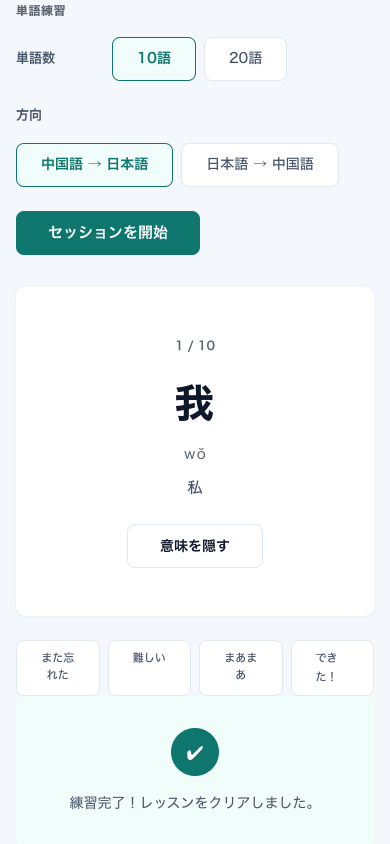
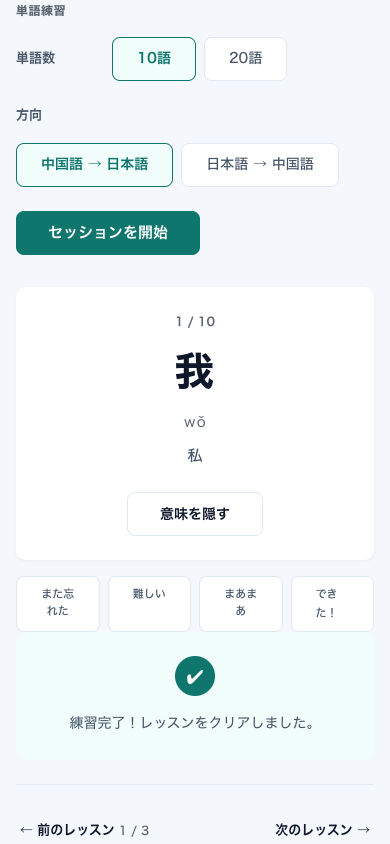
fix: shrink B vocab spacing, realign screenshots to section-label top

diff --git a/docs/design/prototypes/direction-b-learning-app.html b/docs/design/prototypes/direction-b-learning-app.html
@@ -621,14 +621,14 @@
   /* --- Completion state ----------------------------------------- */
   .completion {
     text-align: center;
-    padding: var(--space-xl) var(--space-md);
+    padding: var(--space-lg) var(--space-md);
     border-radius: var(--radius-card);
     background: var(--color-accent-light);
-    margin-bottom: var(--space-xl);
+    margin-bottom: 0;
   }
   .completion__icon {
-    width: 48px;
-    height: 48px;
+    width: 40px;
+    height: 40px;
     background: var(--color-accent);
     color: #fff;
     font-size: 1.25rem;
@@ -645,7 +645,7 @@
 
   /* --- Vocabulary Session ---------------------------------------- */
   .vocab-section {
-    margin-bottom: var(--space-xl);
+    margin-bottom: 0;
   }
 
   /* Setup panel */
@@ -724,15 +724,15 @@
     background: var(--color-elevated);
     border-radius: var(--radius-card);
     box-shadow: var(--shadow-card);
-    padding: var(--space-2xl) var(--space-lg);
+    padding: var(--space-lg) var(--space-lg);
     text-align: center;
-    margin-bottom: var(--space-lg);
+    margin-bottom: var(--space-md);
   }
   .vocab-card__count {
     font-size: 0.75rem;
     font-weight: 600;
     color: var(--color-text-muted);
-    margin-bottom: var(--space-lg);
+    margin-bottom: var(--space-md);
   }
   .vocab-card__zh {
     font-family: var(--font-zh);
@@ -798,7 +798,7 @@
     gap: var(--space-sm);
     justify-content: center;
     flex-wrap: wrap;
-    margin-top: var(--space-lg);
+    margin-top: var(--space-md);
   }
   .vocab-rating__btn {
     min-height: 52px;
